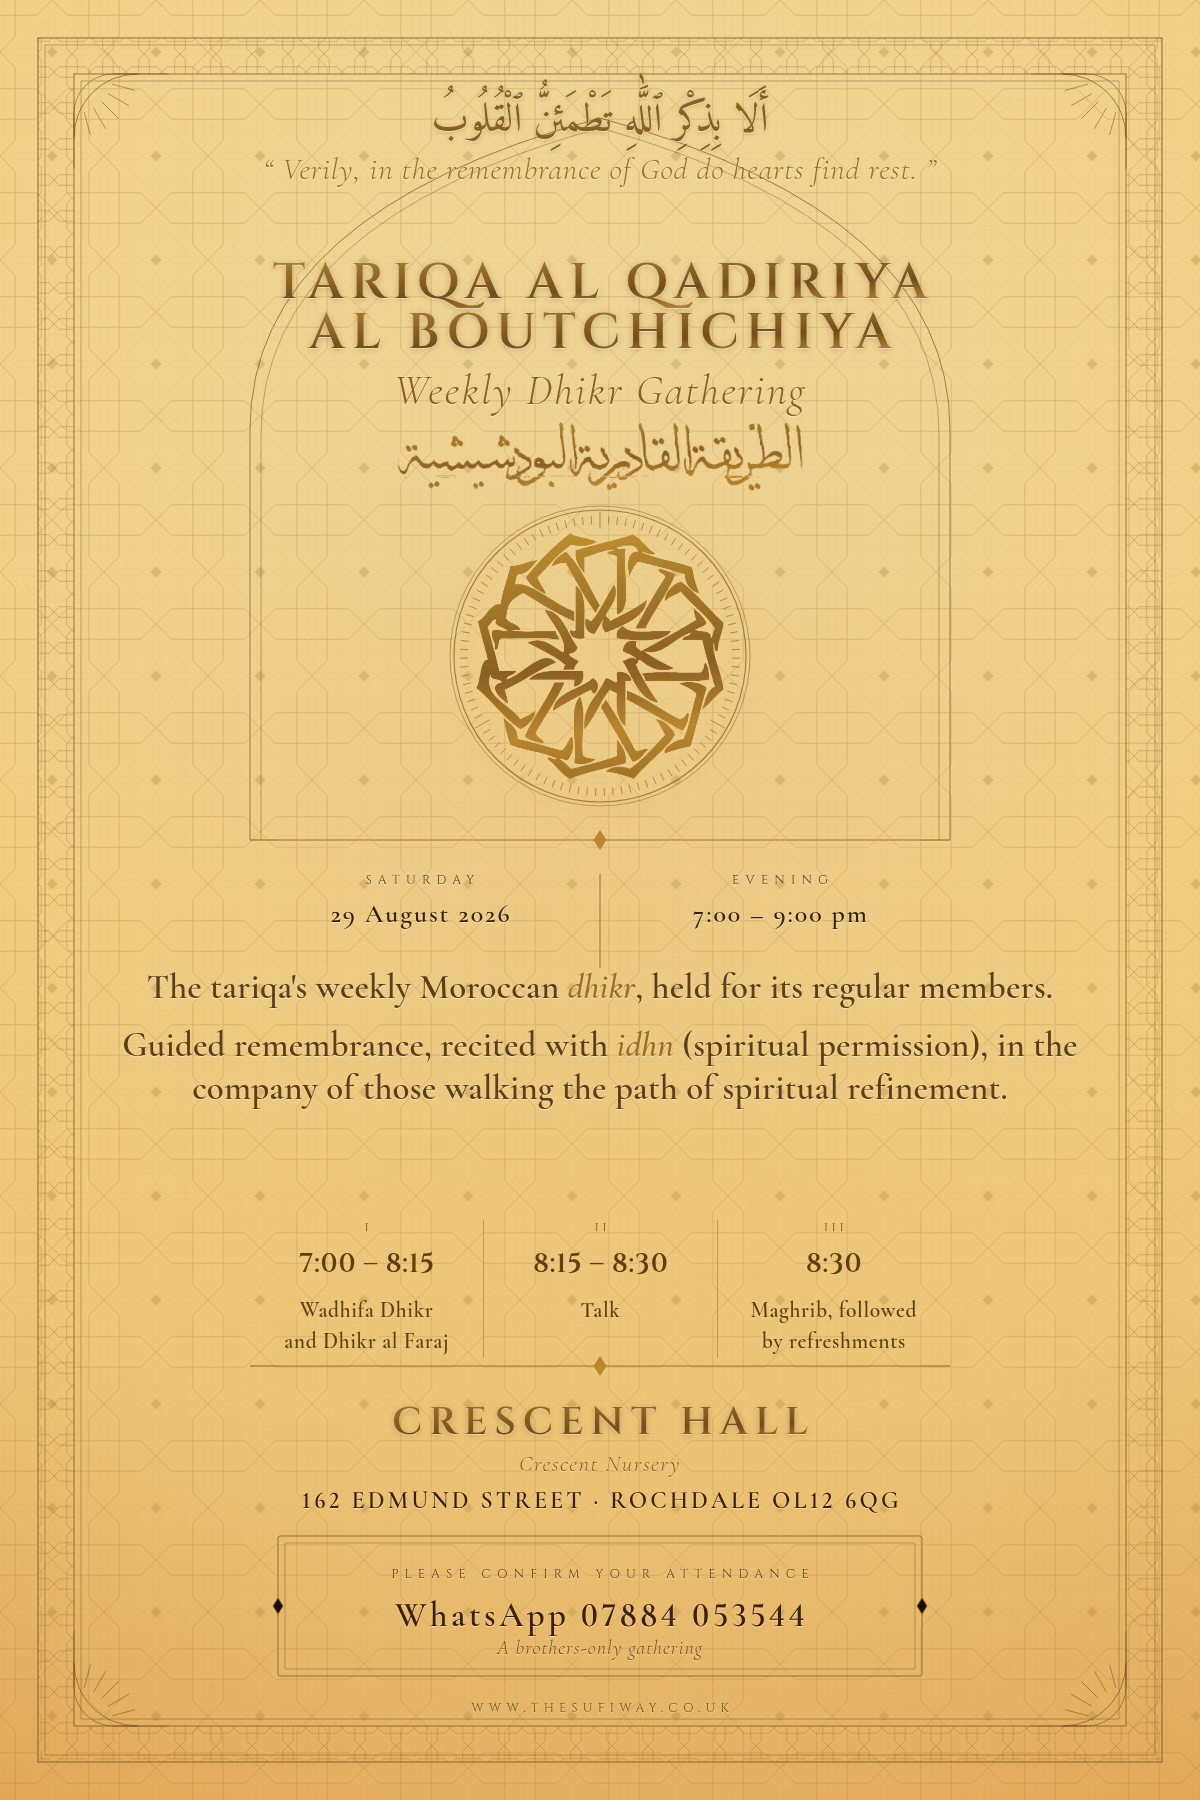
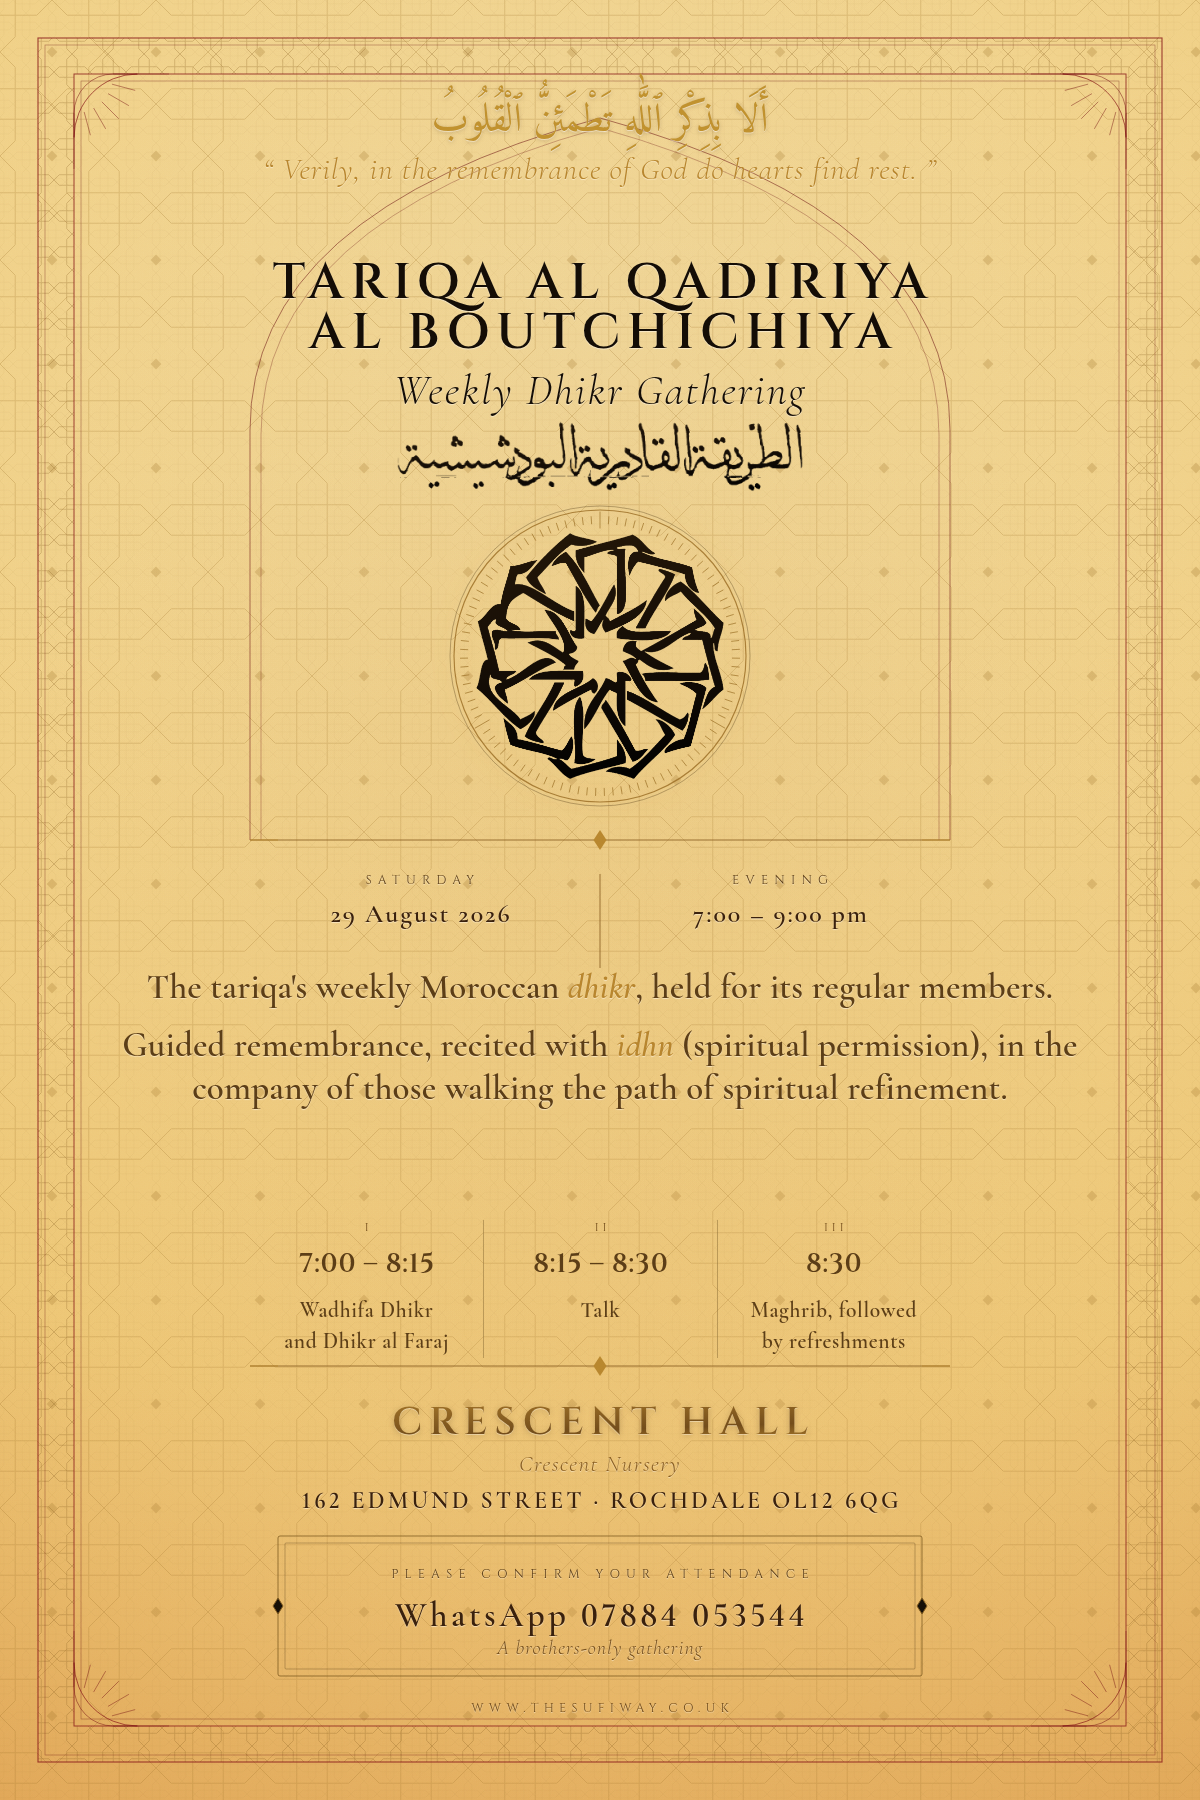
Sandstone: gold top, black middle, rich red border
Splits Sandstone & Gold's colour into three zones: the ayah + translation
stay bright gold; the title, "Weekly Dhikr Gathering", the Arabic wordmark
and the star medallion go black as a bold centrepiece; everything else
(date, body, programme, venue, WhatsApp, footer) is untouched. The page
border (outer frame, arch outline, corner flourishes) becomes a rich red,
via new border1/2/3 tokens kept separate from hair3/4/5 so the star's own
halo ring doesn't get dragged red along with the frame.

title_block() takes an optional cls param (default "gold", so every other
colourway is unaffected); corner() takes optional cls1/cls2 for the same
reason. Both changes are additive and default to prior behaviour.

Claude-Session: https://claude.ai/code/session_01W3RXmfEcLks2fUKiCDKANu

diff --git a/design/weekly-gathering/final/final.py b/design/weekly-gathering/final/final.py
@@ -21,12 +21,13 @@ def shot(html_path, out_png, scale=1):
     print(out_png.name, im.size)
 
 
-def build_hero():
+def build_hero(pal=None):
+    pal = pal or DEFAULT_PALETTE
     MED_CY, R, SEAL_D = 656, 150, 252          # SEAL_D deliberately smaller than R —
     extra_body = f'<g class="med">{v.halo(CX, MED_CY, R)}</g>'  # daylight for the 99-mark ring
     hero = f'''
 {ayah_block(90, 150)}
-{title_block(258, 50, 56)}
+{title_block(258, 50, 56, cls=pal.get('title_cls', 'gold'))}
 {wordmark(420, 72)}
 <div class="mark seal" style="top:{MED_CY-SEAL_D//2}px;width:{SEAL_D}px;height:{SEAL_D}px;
   -webkit-mask-image:url({v.STAR_URI});mask-image:url({v.STAR_URI})"></div>
@@ -91,6 +92,9 @@ html,body{{background:#000}}
 .hair-3{{fill:none;stroke:{pal['hair3']};opacity:.80}}
 .hair-4{{fill:none;stroke:{pal['hair4']};opacity:.75}}
 .hair-5{{fill:none;stroke:{pal['hair5']};opacity:.55}}
+.brd1{{fill:none;stroke:{pal.get('border1', pal['hair3'])};opacity:.80}}
+.brd2{{fill:none;stroke:{pal.get('border2', pal['hair5'])};opacity:.55}}
+.brd3{{fill:none;stroke:{pal.get('border3', pal['hair4'])};opacity:.75}}
 .petal{{fill:{pal['petal']};stroke:{pal['petal_stroke']};opacity:.75}}
 .petal-lit{{fill:{pal['petal_lit']};stroke:{pal['petal_lit_stroke']};opacity:.9}}
 .dot{{fill:{pal['dot']}}}
@@ -126,6 +130,7 @@ html,body{{background:#000}}
   -webkit-background-clip:text;background-clip:text;color:transparent;
   filter:{pal.get('gold_shadow', 'drop-shadow(0 1px 0 rgba(0,0,0,.6)) drop-shadow(0 2px 5px rgba(6,4,2,.7)) drop-shadow(0 0 20px rgba(214,172,100,.26))')}}}
 .at.gold{{text-shadow:none}}
+.ink{{color:{pal.get('title_color', '#1A1006')}}}
 .ayah{{font-family:Amiri,serif;font-size:40px;line-height:1.55;color:{pal['ayah']};
   direction:rtl;filter:{pal.get('ayah_shadow', 'drop-shadow(0 0 16px rgba(214,172,100,.28))')}}}
 .gloss{{font-family:Cormorant,serif;font-style:italic;font-weight:300;font-size:31px;
@@ -185,8 +190,8 @@ def frame_svg(pal, hero_extra):
 
   <g class="ground">{v.ground_rosette(CX, 1060, 720)}</g>
 
-  {v.arch(0, "hair-5", 1.0)}
-  {v.arch(11, "hair-5", 0.6)}
+  {v.arch(0, "brd2", 1.0)}
+  {v.arch(11, "brd2", 0.6)}
 
   {hero_extra}
 
@@ -194,11 +199,11 @@ def frame_svg(pal, hero_extra):
   <defs>{band_pat}</defs>
   <path fill-rule="evenodd" fill="url(#{band_id})" style="opacity:{pal['band_op']}"
         d="M38,38 H{W-38} V{H-38} H38 Z M74,74 H{W-74} V{H-74} H74 Z"/>
-  <rect x="38" y="38" width="{W-76}" height="{H-76}" class="hair-3" stroke-width="1.15" fill="none"/>
-  <rect x="45" y="45" width="{W-90}" height="{H-90}" class="hair-5" stroke-width="0.6" fill="none"/>
-  <rect x="74" y="74" width="{W-148}" height="{H-148}" class="hair-3" stroke-width="1.0" fill="none"/>
-  <rect x="81" y="81" width="{W-162}" height="{H-162}" class="hair-5" stroke-width="0.6" fill="none"/>
-  {v.corner(74,74,1,1,0.66)}{v.corner(W-74,74,-1,1,0.66)}{v.corner(74,H-74,1,-1,0.66)}{v.corner(W-74,H-74,-1,-1,0.66)}
+  <rect x="38" y="38" width="{W-76}" height="{H-76}" class="brd1" stroke-width="1.15" fill="none"/>
+  <rect x="45" y="45" width="{W-90}" height="{H-90}" class="brd2" stroke-width="0.6" fill="none"/>
+  <rect x="74" y="74" width="{W-148}" height="{H-148}" class="brd1" stroke-width="1.0" fill="none"/>
+  <rect x="81" y="81" width="{W-162}" height="{H-162}" class="brd2" stroke-width="0.6" fill="none"/>
+  {v.corner(74,74,1,1,0.66,cls1="brd1",cls2="brd3")}{v.corner(W-74,74,-1,1,0.66,cls1="brd1",cls2="brd3")}{v.corner(74,H-74,1,-1,0.66,cls1="brd1",cls2="brd3")}{v.corner(W-74,H-74,-1,-1,0.66,cls1="brd1",cls2="brd3")}
 
   {v.rule(CX, v.ARCH_BASE, 350)}
   <line x1="{CX}" y1="{v.ARCH_BASE+34}" x2="{CX}" y2="{v.ARCH_BASE+128}" class="rule"/>
@@ -264,7 +269,7 @@ those walking the path of spiritual refinement.
 '''
 
 def render(pal, out_name, scale=1):
-    hero, hero_extra = build_hero()
+    hero, hero_extra = build_hero(pal)
     html = f'''<!doctype html>
 <html lang="en"><head><meta charset="utf-8"><title>Weekly Dhikr Gathering</title>
 <style>{css(pal)}</style></head>
@@ -383,11 +388,19 @@ SANDSTONE.update(
     zh="#9C6F27", zf="#7E5A20", zstud="#9C6F27", zb="#8A5F22",
     scrim="230,180,110", scrim_mult=0.24, halo_mult=0.38, ground_op=0.0,
     gold_grad="linear-gradient(178deg,#C1922F 0%,#9C6F27 26%,#734D1B 58%,#B8862E 82%,#8A5F22 100%)",
-    mark_grad="linear-gradient(176deg,#C1922F 0%,#A97D2B 22%,#8A5F22 54%,#B8862E 78%,#9C6F27 100%)",
-    ayah="#8A5F22", gloss="#9C6F27", t2="#8A5F22", lab="#5C3E17", val="#3A210D",
+    # the title/subtitle/wordmark/star — the poster's "middle" — go black instead
+    # of gold, for a bold graphic centrepiece against the terracotta ground.
+    title_cls="ink", title_color="#140D06",
+    mark_grad="linear-gradient(176deg,#241708 0%,#140D06 55%,#000000 100%)",
+    # the top ayah + its translation read as clearly, richly gold.
+    ayah="#C1922F", gloss="#B8862E", t2="#140D06", lab="#5C3E17", val="#3A210D",
     body="#5C3E17", pt="#5C3E17", pd="#5C3E17", rn="#734D1B", vsub="#8A5F22",
     addr="#3A210D", wa="#3A210D", note="#734D1B", url="#734D1B",
     halo0="#B8862E", halo1="#9C6F27", halo2="#7E5A20", halo3="#63451A",
+    # the page border — outer frame, arch outline, corner flourishes — a rich red,
+    # kept separate from hair3/hair4/hair5 so the star's own halo ring (which
+    # reuses hair-5) isn't dragged red along with it.
+    border1="#8A1A1A", border2="#6E1414", border3="#7A1717",
     text_shadow="0 1px 1px rgba(255,250,240,.55)",
     gold_shadow="drop-shadow(0 1px 0 rgba(255,255,255,.35)) drop-shadow(0 1px 3px rgba(58,33,13,.24))",
     seal_shadow="drop-shadow(0 1px 3px rgba(58,33,13,.24)) drop-shadow(0 1px 1px rgba(255,255,255,.3))",

diff --git a/design/weekly-gathering/variants/variants.py b/design/weekly-gathering/variants/variants.py
@@ -97,17 +97,17 @@ def ground_rosette(cx, cy, R):
     for d in petal_ring(cx, cy, 74*u, 114*u, 24, rot=360/48): g.append(path(d, "gh", 0.55))
     return "\n".join(g)
 
-def corner(x, y, sx, sy, s=1.0):
+def corner(x, y, sx, sy, s=1.0, cls1="hair-3", cls2="hair-4"):
     g, R = [], 96*s
     g.append(f'<g transform="translate({x},{y}) scale({sx},{sy})">')
-    g.append(f'<path d="M 0,{R:.1f} A {R:.1f},{R:.1f} 0 0 1 {R:.1f},0" class="hair-3" stroke-width="0.9"/>')
-    g.append(f'<path d="M 0,{R*0.62:.1f} A {R*0.62:.1f},{R*0.62:.1f} 0 0 1 {R*0.62:.1f},0" class="hair-4" stroke-width="0.7"/>')
+    g.append(f'<path d="M 0,{R:.1f} A {R:.1f},{R:.1f} 0 0 1 {R:.1f},0" class="{cls1}" stroke-width="0.9"/>')
+    g.append(f'<path d="M 0,{R*0.62:.1f} A {R*0.62:.1f},{R*0.62:.1f} 0 0 1 {R*0.62:.1f},0" class="{cls2}" stroke-width="0.7"/>')
     for i in range(7):
         a = 90*i/6.0
         x0, y0 = P(0, 0, R*0.62, a); x1, y1 = P(0, 0, R, a)
-        g.append(f'<path d="M {x0:.2f},{-y0:.2f} L {x1:.2f},{-y1:.2f}" class="hair-4" stroke-width="0.65"/>')
-    g.append(f'<path d="M 0,{R*1.5:.1f} L 0,{R*0.62:.1f}" class="hair-4" stroke-width="0.65"/>')
-    g.append(f'<path d="M {R*0.62:.1f},0 L {R*1.5:.1f},0" class="hair-4" stroke-width="0.65"/>')
+        g.append(f'<path d="M {x0:.2f},{-y0:.2f} L {x1:.2f},{-y1:.2f}" class="{cls2}" stroke-width="0.65"/>')
+    g.append(f'<path d="M 0,{R*1.5:.1f} L 0,{R*0.62:.1f}" class="{cls2}" stroke-width="0.65"/>')
+    g.append(f'<path d="M {R*0.62:.1f},0 L {R*1.5:.1f},0" class="{cls2}" stroke-width="0.65"/>')
     g.append('</g>')
     return "\n".join(g)
 

diff --git a/design/weekly-gathering/variants/render_variants.py b/design/weekly-gathering/variants/render_variants.py
@@ -22,9 +22,9 @@ BLDG_ARCH_GOLD = v.mask_uri("mask-building-wide-gold.png")
 BLDG_SQ_GOLD   = v.mask_uri("mask-building-square-gold.png")
 AW, AH = 1016, 525          # native size of the wide silhouette crop
 
-def title_block(t1a, gap1=54, gap2=62):
-    return (f'<div class="at t1 gold" style="top:{t1a}px">TARIQA AL QADIRIYA</div>\n'
-            f'<div class="at t1 gold" style="top:{t1a+gap1}px">AL BOUTCHICHIYA</div>\n'
+def title_block(t1a, gap1=54, gap2=62, cls="gold"):
+    return (f'<div class="at t1 {cls}" style="top:{t1a}px">TARIQA AL QADIRIYA</div>\n'
+            f'<div class="at t1 {cls}" style="top:{t1a+gap1}px">AL BOUTCHICHIYA</div>\n'
             f'<div class="at t2" style="top:{t1a+gap1+gap2}px">Weekly Dhikr Gathering</div>')
 
 def ayah_block(top=104, gloss=172):

diff --git a/design/weekly-gathering/final/README.md b/design/weekly-gathering/final/README.md
@@ -81,6 +81,31 @@ colourways changed):
   down (not remove) the warm glow and the pattern-hiding scrim to the much
   smaller doses a pale ground needs.
 
+Sandstone then picked up a three-zone colour split, on top of everything
+above:
+
+- **Top** (the ayah + its English translation) — bright, unambiguous gold
+  (`ayah`/`gloss` tokens pushed to the gold family's brightest stops).
+- **Middle** (the English title, "Weekly Dhikr Gathering", the Arabic
+  wordmark, and the star medallion) — black instead of gold, a bold graphic
+  centrepiece against the terracotta ground. `title_block()` now takes an
+  optional `cls` (default `"gold"`, unchanged for every other colourway);
+  `build_hero(pal)` passes `pal.get('title_cls', 'gold')` so Sandstone alone
+  supplies `"ink"`, a new class reading `title_color`. The star and Arabic
+  wordmark share the `.mark` class, so pointing Sandstone's `mark_grad` at a
+  near-black gradient turns both black together.
+- **Everything else** (date/time, body copy, programme, venue, WhatsApp,
+  footer) — left exactly as it already was.
+
+The page border — outer frame, arch outline, corner flourishes — is a rich
+red on Sandstone. It needed its own tokens (`border1`/`border2`/`border3`,
+new `.brd1`/`.brd2`/`.brd3` classes) rather than reusing `hair3`/`hair4`/
+`hair5` directly: the star's own halo ring (the 99-mark tasbih circle) reuses
+`hair-5` too, and recolouring that token would have dragged the medallion's
+ring red along with the frame. Every other colourway leaves `border1..3`
+unset, so `.brd1{{stroke:{pal.get('border1', pal['hair3'])}}}` (etc.) falls
+back to the original hairline colour — pixel-identical to before.
+
 Sandstone was then pushed further on the same two complaints — "looks a bit
 dull" and "make the writing easier to read":
 
